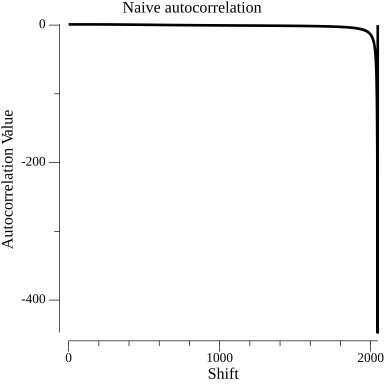
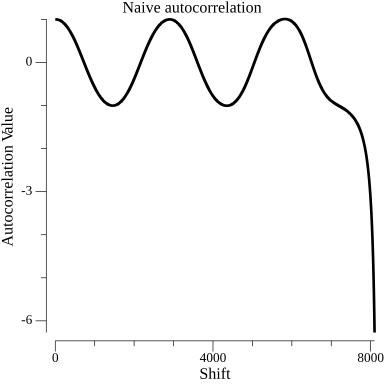
Optimized2 and naive testing and results

diff --git a/main.go b/main.go
@@ -77,7 +77,7 @@ func main() {
 		return
 	}
 
-	slicedBuffer := utils.SliceBuffer(fullBuffer, 2048) //About 40 full cycles of A440
+	slicedBuffer := utils.SliceBuffer(fullBuffer, 8192) //About 40 full cycles of A440
 
 	fmt.Println()
 	fmt.Println()
@@ -85,19 +85,22 @@ func main() {
 	fmt.Printf("Buffer size: %d \n", slicedBuffer.NumFrames())
 
 	start := time.Now()
-	naive := NaiveAutocorrelationNorm(slicedBuffer)[:2048] // Skip very small shifts, error too big. TODO investigate what happens here.
+	naive := NaiveAutocorrelationNorm(slicedBuffer)[:8100] // Skip very small shifts, error too big. TODO investigate what happens here.
 	fmt.Printf("Naive: %v\n", time.Since(start))
 
-	start2 := time.Now()
-
-	//NORM2
-
+	start = time.Now()
 	opti := OptimizedAutocorrelationNorm(slicedBuffer) // ATTN: FFT WAY slower if frame size not divisible by 2
-	fmt.Printf("Optimized: %v\n", time.Since(start2))
+	fmt.Printf("Optimized: %v\n", time.Since(start))
 
+	start = time.Now()
+	opti2 := OptimizedAutocorrelationNorm2(slicedBuffer) // ATTN: FFT WAY slower if frame size not divisible by 2
+	fmt.Printf("Optimized2: %v\n", time.Since(start))
 	naivePlot := plotAutocorrelation(naive, "Naive autocorrelation")
 	naivePlot.Save(4*vg.Inch, 4*vg.Inch, "naive.png")
 
-	optiPlot := plotAutocorrelation(opti, "Optimized autocorrelation")
+	optiPlot := plotAutocorrelation(opti[1:], "Optimized autocorrelation")
 	optiPlot.Save(4*vg.Inch, 4*vg.Inch, "optimized.png")
+
+	opti2Plot := plotAutocorrelation(opti2[1000:], "Optimized2 autocorrelation") // Works somewhat
+	opti2Plot.Save(4*vg.Inch, 4*vg.Inch, "optimized2.png")
 }

diff --git a/utils/utils.go b/utils/utils.go
@@ -98,7 +98,11 @@ func CumulativeAveragePowerPerSample(buf *audio.IntBuffer) []float64 {
 		prev = power
 	}
 	for i, _ := range cumulativePowerPS {
-		cumulativePowerPS[i] /= float64(i)
+		if cumulativePowerPS[i] == 0 {
+			cumulativePowerPS[i] = 1
+		} else {
+			cumulativePowerPS[i] /= float64(i)
+		}
 	}
 	return cumulativePowerPS
 }

diff --git a/README.md b/README.md
@@ -10,8 +10,10 @@ Novel real time pitch tracking and harmonic decomposition based on a combined ti
 * Investigate boundary/window effects when using power spectrum to compute autocorrelation. Worth it or not? Make the implementation selectable? Depends on signal, construct a worst case to test with. Seems to be large for example when doing `uneven_8192.wav, 4096 samples fft` setting
 * Identify division by zero edge cases
 * ~~Investigate even_4096 discrepancy for naive implementation~~ No issue
-* Investigate the error at the very high end of shift in naive implementation
+* Investigate the error at the very high end of shift in naive implementation (cumulative power doesn't work well for very small numbers)
+* Investigate the error at the very high end of shift in optimized2 implementation (cumulative power doesn't work well for very small numbers, also why is it at the other end here - have I inverted it somehow?)
 * Uneven_8192, 4096 samples setting - Optimized issue
+* Implement SNAC in its entirety
 
 # Longer term ideas
 * Pitch estimation immediately after attack (striking string) based on first max -> first zero crossing
